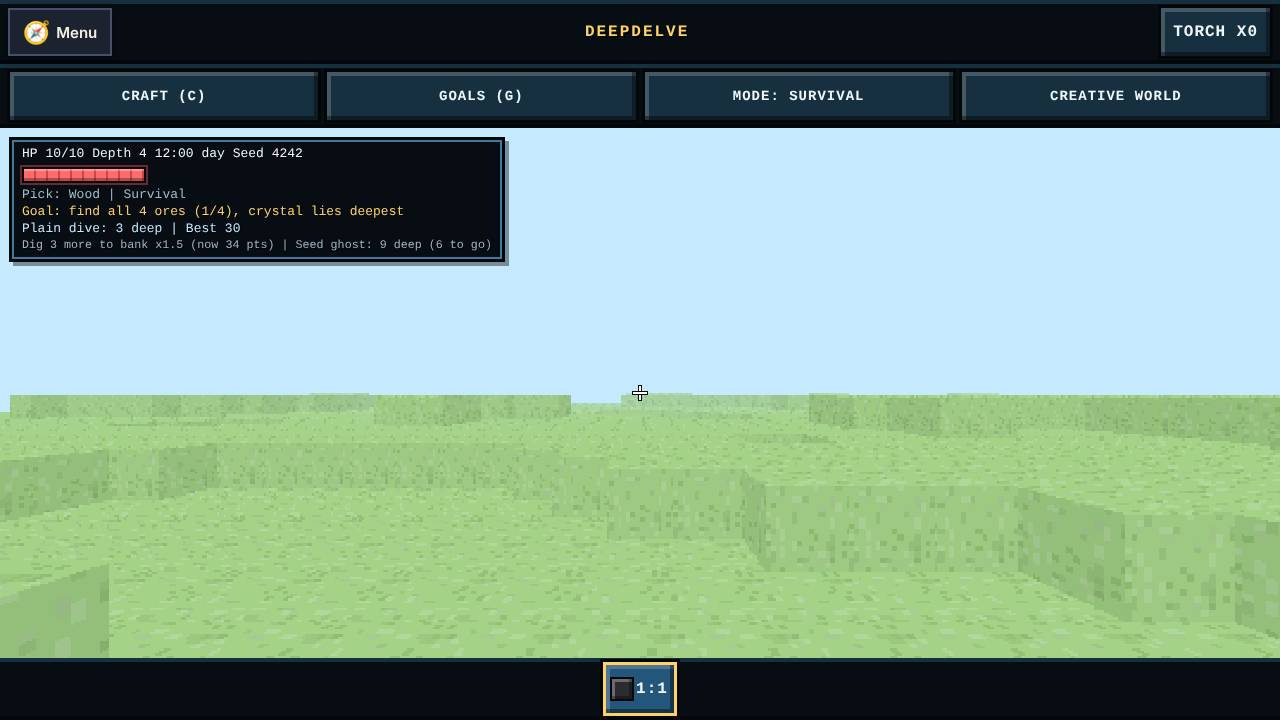
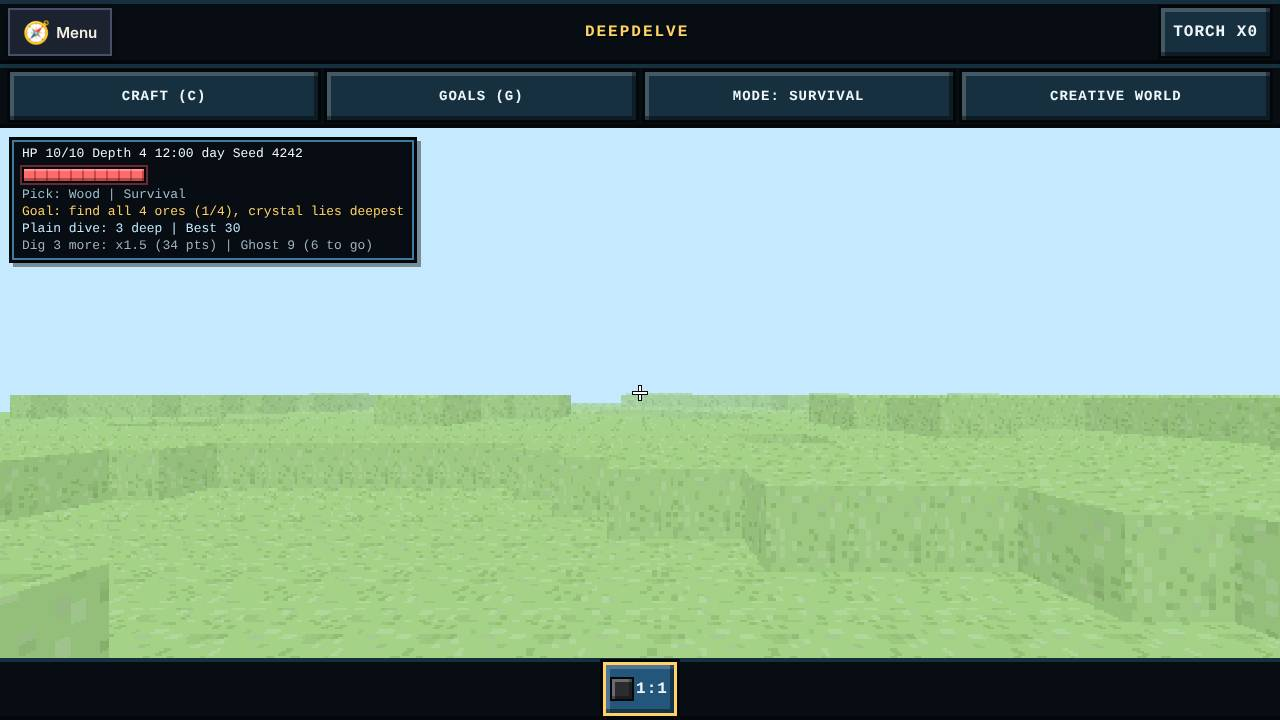
Deepdelve bank line at HUD size; phone HUD folds goal/bank; shadow test uses offlineStub
- #hud-bank drops its .9em (11.7 px) and inherits the HUD size (13 px, x hudScale): >= 12 px everywhere.
- Shorter bank text; the dive line no longer repeats the climb-out hint.
- Phone (<= 480 px): the goal line folds away mid-dive and the bank line folds away at the surface, so
  the HUD is never taller than before the bank line (6 lines mid-dive at 390x844).
- cyc0-town-interact-shadow: offlineStub(ctx) + db.attempts() === 0 (live-class rule in run-all-tiers).
- deepdelve-ghost: new checks for font sizes at 100%/150% text and the phone fold / height.

Claude-Session: https://claude.ai/code/session_01YYUkojBS4xUfZdkLhLvWtx

Changed region(s): [[0.0, 0.1833, 0.4062, 0.3667]]

diff --git a/game/tests/deepdelve-ghost.test.js b/game/tests/deepdelve-ghost.test.js
@@ -56,24 +56,30 @@ class Mem { constructor(o) { this.m = Object.assign({}, o); } getItem(k) { retur
   // ---- page ----
   const browser = await chromium.launch({ args: ['--use-gl=swiftshader', '--enable-unsafe-swiftshader'] });
   const shots = process.env.SHOTS;
-  for (const [name, opts] of [['desktop', { viewport: { width: 1280, height: 720 } }], ['phone', { viewport: { width: 390, height: 844 }, hasTouch: true, isMobile: true }]]) {
+  const PHONE = { viewport: { width: 390, height: 844 }, hasTouch: true, isMobile: true };
+  for (const [name, opts, scale] of [['desktop', { viewport: { width: 1280, height: 720 } }, 1], ['phone', PHONE, 1], ['phone-text150', PHONE, 1.5]]) {
+    const isPhone = opts === PHONE;
     const ctx = await browser.newContext(opts);
     const db = await blockDb(ctx);
     const page = await ctx.newPage();
     const errors = [];
     page.on('pageerror', (e) => errors.push('pageerror: ' + e.message));
-    await page.addInitScript(([k]) => { try { localStorage.setItem(k, JSON.stringify({ v: 1, runs: 3, safe: 1, best: { score: 50, depth: 30, ores: 0, combo: 1 }, seedBest: { 4242: 9 } })); } catch (e) { /* blocked */ } }, [RUNS]);
+    await page.addInitScript(([k, sc]) => { try { if (sc !== 1) localStorage.setItem('pixeltown-access-v1', JSON.stringify({ v: 1, hudScale: sc })); localStorage.setItem(k, JSON.stringify({ v: 1, runs: 3, safe: 1, best: { score: 50, depth: 30, ores: 0, combo: 1 }, seedBest: { 4242: 9 } })); } catch (e) { /* blocked */ } }, [RUNS, scale]);
     await page.goto(URL('&seed=4242'));
     await page.waitForFunction(() => window.__dd && window.__dd.ready, null, { timeout: 60000 });
     const r0 = await page.evaluate(() => {
       const api = window.__dd.run; const d0 = api.depth0();
-      const a = { start: api.bankEl(), seed: api.state.seed };
+      const shown = (id) => { const e = document.getElementById(id); return !!e && e.offsetHeight > 0; };
+      const hud = document.getElementById('hud');
+      const a = { start: api.bankEl(), seed: api.state.seed, surfaceH: hud.offsetHeight, surfGoal: shown('hud-goal'), surfBank: shown('hud-bank') };
       api.tick(d0 + 3); api.mined('stone', 100); a.shallow = api.bankEl(); a.shallowPts = window.__dd.run.MMDDRun.score(api.state, false);
+      a.diveH = hud.offsetHeight; a.diveGoal = shown('hud-goal'); a.diveBank = shown('hud-bank');
+      a.fonts = ['hud-dive', 'hud-bank', 'hud-pick'].map((id) => parseFloat(getComputedStyle(document.getElementById(id)).fontSize));
       return a;
     });
     // the page's own loop keeps ticking at the surface: an unarmed dive stays as it is, so the HUD can be photographed here
     await page.waitForTimeout(300);
-    if (shots) await page.screenshot({ path: `${shots}/cyc0-deepdelve-bank-${name}.jpg`, type: 'jpeg', quality: 70 });
+    if (shots && scale === 1) await page.screenshot({ path: `${shots}/cyc0-deepdelve-bank-${name}.jpg`, type: 'jpeg', quality: 70 });
     const r = await page.evaluate((a) => {
       const api = window.__dd.run; const d0 = api.depth0();
       a.still = api.bankEl();
@@ -86,10 +92,16 @@ class Mem { constructor(o) { this.m = Object.assign({}, o); } getItem(k) { retur
     }, r0);
     console.log('  ' + name + ': ' + JSON.stringify({ start: r.start, shallow: r.shallow, armed: r.armed, past: r.past }));
     check(name + ': the dive carries the page seed (4242)', r.seed === '4242', String(r.seed));
-    check(name + ': before arming the HUD says how many blocks until the bonus, and shows the seed ghost', /^Dig 6 more to bank x1\.5 \(now 0 pts\) \| Seed ghost: 9 deep \(9 to go\)$/.test(r.start), r.start);
-    check(name + ': 3 deep + one block: 3 more to arm, the fall score so far, 6 to the ghost', r.shallowPts > 30 && r.shallow === 'Dig 3 more to bank x1.5 (now ' + r.shallowPts + ' pts) | Seed ghost: 9 deep (6 to go)', r.shallow + ' / ' + r.shallowPts);
-    check(name + ': armed (8 deep): the climb-out value (x1.5) and the fall value are shown and the line is highlighted', r.armedPts[0] === Math.floor(r.armedPts[1] * 1.5) && r.armed === 'Climb out now: ' + r.armedPts[0] + ' pts (a fall keeps ' + r.armedPts[1] + ') | Seed ghost: 9 deep (1 to go)' && r.armedFlag === '1', r.armed + ' ' + r.armedFlag + ' ' + r.armedPts);
-    check(name + ': 11 deep is past the ghost, with a "Past your seed ghost!" pop', /Past your seed ghost by 2$/.test(r.past) && r.past.indexOf('Climb out now: ' + r.expected + ' pts') === 0 && r.pops.some((t) => /seed ghost/.test(t)), r.past + ' ' + JSON.stringify(r.pops));
+    check(name + ': before arming the HUD says how many blocks until the bonus, and shows the seed ghost', r.start === 'Dig 6 more: x1.5 (0 pts) | Ghost 9 (9 to go)', r.start);
+    check(name + ': 3 deep + one block: 3 more to arm, the fall score so far, 6 to the ghost', r.shallowPts > 30 && r.shallow === 'Dig 3 more: x1.5 (' + r.shallowPts + ' pts) | Ghost 9 (6 to go)', r.shallow + ' / ' + r.shallowPts);
+    check(name + ': armed (8 deep): the climb-out value (x1.5) and the fall value are shown and the line is highlighted', r.armedPts[0] === Math.floor(r.armedPts[1] * 1.5) && r.armed === 'Climb out: ' + r.armedPts[0] + ' pts (fall ' + r.armedPts[1] + ') | Ghost 9 (1 to go)' && r.armedFlag === '1', r.armed + ' ' + r.armedFlag + ' ' + r.armedPts);
+    check(name + ': 11 deep is past the ghost, with a "Past your seed ghost!" pop', /\| Ghost \+2$/.test(r.past) && r.past.indexOf('Climb out: ' + r.expected + ' pts') === 0 && r.pops.some((t) => /seed ghost/.test(t)), r.past + ' ' + JSON.stringify(r.pops));
+    check(name + ': HUD text (dive, bank, pick) is >= 12 px and scales with Text size', r.fonts.every((f) => f >= 12) && (scale === 1 || r.fonts[1] >= 13 * scale - 0.5), JSON.stringify(r.fonts));
+    if (isPhone) {
+      check(name + ': phone at the surface shows the goal line and folds the bank line away', r.surfGoal === true && r.surfBank === false, JSON.stringify(r));
+      check(name + ': phone mid-dive folds the goal line away and shows the bank line', r.diveGoal === false && r.diveBank === true, JSON.stringify(r));
+      check(name + ': phone HUD is no taller mid-dive than at the surface (the bank line takes the goal line\'s place)', r.diveH <= r.surfaceH + 1, r.surfaceH + ' -> ' + r.diveH);
+    } else check(name + ': desktop keeps both the goal and the bank line mid-dive', r.diveGoal === true && r.diveBank === true);
     check(name + ': the bank line fits on screen', r.box.l >= 0 && r.box.r <= r.box.w + 1 && r.box.b > r.box.t, JSON.stringify(r.box));
     check(name + ': the unarmed line survives the live game loop unchanged', r.still === r.shallow, r.still);
     const fin = await page.evaluate((k) => { window.__dd.run.end(true, 'test'); return { tip: document.getElementById('run-tip').textContent, saved: JSON.parse(localStorage.getItem(k)).seedBest }; }, RUNS);
@@ -98,7 +110,7 @@ class Mem { constructor(o) { this.m = Object.assign({}, o); } getItem(k) { retur
     await off.goto(URL('&seed=4242&ghost=0'));
     await off.waitForFunction(() => window.__dd && window.__dd.ready, null, { timeout: 60000 });
     const offTxt = await off.evaluate(() => window.__dd.run.bankEl());
-    check(name + ': ?ghost=0 keeps the bank line and drops the ghost part', /^Dig 6 more to bank x1\.5/.test(offTxt) && !/ghost/i.test(offTxt), offTxt);
+    check(name + ': ?ghost=0 keeps the bank line and drops the ghost part', /^Dig 6 more: x1\.5/.test(offTxt) && !/ghost/i.test(offTxt), offTxt);
     check(name + ': no page errors', errors.length === 0, errors.join(' | '));
     check(name + ': no DB traffic', db.attempts() === 0, String(db.attempts()));
     await ctx.close();

diff --git a/game/games/deepdelve/deepdelve.js b/game/games/deepdelve/deepdelve.js
@@ -173,7 +173,7 @@
   function renderDive() {
     const el = $('hud-dive'); if (!el) return;
     if (!run || !runRec) { el.textContent = ''; return; }
-    el.textContent = modName(run.mod) + ': ' + run.depth + ' deep | Best ' + (runRec.best.depth || '-') + (run.armed ? ' | Climb out for x' + RUNS.SAFE_BONUS : '');
+    el.textContent = modName(run.mod) + ': ' + run.depth + ' deep | Best ' + (runRec.best.depth || '-'); // cyc0-S: the climb-out value lives on the bank line below
     renderBank();
   }
   // cyc0-S (NEXT-SLICES-5 DD5): the bank line says what the dive is worth if you climb out now (x1.5) versus a fall, and the
@@ -184,14 +184,15 @@
   function bankText() {
     const b = run && runRec && RUNS.bank ? RUNS.bank(run, runRec) : null;
     if (!b) return '';
-    const head = b.armed ? 'Climb out now: ' + b.surface + ' pts (a fall keeps ' + b.fall + ')' : 'Dig ' + b.toArm + ' more to bank x' + RUNS.SAFE_BONUS + ' (now ' + b.fall + ' pts)';
-    const ghost = !GHOST_ON || !b.ghost ? '' : b.ahead > 0 ? ' | Past your seed ghost by ' + b.ahead : ' | Seed ghost: ' + b.ghost + ' deep (' + (-b.ahead) + ' to go)';
+    const head = b.armed ? 'Climb out: ' + b.surface + ' pts (fall ' + b.fall + ')' : 'Dig ' + b.toArm + ' more: x' + RUNS.SAFE_BONUS + ' (' + b.fall + ' pts)';
+    const ghost = !GHOST_ON || !b.ghost ? '' : b.ahead > 0 ? ' | Ghost +' + b.ahead : ' | Ghost ' + b.ghost + ' (' + (-b.ahead) + ' to go)';
     return head + ghost;
   }
   function renderBank() {
     const el = $('hud-bank'); if (!el) return;
     const t = bankText(); if (t === bankTxt) return;
     bankTxt = t; el.textContent = t; el.dataset.armed = run && run.armed ? '1' : '0';
+    const hud = $('hud'); if (hud) hud.dataset.diving = run && run.depth > 0 ? '1' : '0'; // phone: the goal line folds away mid-dive (CSS)
   }
   const modName = (id) => { const m = RUNS && RUNS.MODS.filter((x) => x.id === id)[0]; return m ? m.name : 'Dive'; };
   function startRun() {

diff --git a/game/tests/cyc0-town-interact-shadow.test.js b/game/tests/cyc0-town-interact-shadow.test.js
@@ -4,16 +4,15 @@
 // door; flowers answer E before doors in interact(), so E at that door picked a flower (door won over 40% of its range).
 // Method: every action handler is replaced by a recorder, dynamic shadows (weeds, fish, villagers, bugs) are moved off the
 // map, the merchant and concert are forced on, and interact() is called on a 4 px grid inside each target's radius.
-// OFFLINE ONLY: blockDb + stubbed Firebase SDK; nothing is written.
+// OFFLINE ONLY: offlineStub(ctx) (blockDb + stubbed Firebase SDK) and db.attempts() === 0 asserted; nothing is written.
 // Run: BASE=http://localhost:8440/game/index.html node game/tests/cyc0-town-interact-shadow.test.js
 const { chromium } = require('playwright');
-const { check, done, blockDb } = require('./helpers');
+const { check, done, offlineStub } = require('./helpers');
 const BASE = process.env.BASE || 'http://localhost:8440/game/index.html';
 (async () => {
   const browser = await chromium.launch();
   const ctx = await browser.newContext({ viewport: { width: 1000, height: 700 } });
-  const db = await blockDb(ctx);
-  await ctx.route(/gstatic\.com\/firebasejs\//, (r) => r.fulfill({ status: 200, contentType: 'application/javascript', body: '/* firebase SDK blocked by cyc0 shadow test */' }));
+  const db = await offlineStub(ctx); // database blocked and the Firebase SDK answered empty
   await ctx.route('**/main.js*', async (route) => {
     const resp = await route.fetch();
     route.fulfill({ response: resp, body: (await resp.text()).replace('const game = new Phaser.Game(config);', 'const game = window.__g = new Phaser.Game(config);') });

diff --git a/game/games/deepdelve/deepdelve.css b/game/games/deepdelve/deepdelve.css
@@ -63,9 +63,12 @@ html[data-dd-world="creative"] .bar h1 { color:#9ff0d8; }
 /* Dive runs: hidden touch buttons stay hidden (.btn display beat [hidden]), combo meter, ore pops, dive summary */
 .tb[hidden], .btn[hidden] { display:none; }
 #hud-dive { color:#bfe6ff; }
-#hud-bank { color:#9fb3c2; font-size:.9em; }
+#hud-bank { color:#9fb3c2; } /* same size as the HUD (>= 12 px at every text size) */
 #hud-bank[data-armed="1"] { color:#ffd36a; }
 #hud-bank:empty { display:none; }
+/* cyc0-S: on a phone the HUD stays ~6 lines: while a dive is under way the goal line folds away (it is in the Goals panel and
+   comes back at the surface), so the dive + bank lines take its place instead of growing the box */
+@media (max-width: 480px) { #hud[data-diving="1"] #hud-goal, #hud:not([data-diving="1"]) #hud-bank { display:none; } }
 #combo { position:absolute; left:50%; top:calc(44% + 48px); transform:translateX(-50%); padding:2px 12px; border-radius:12px; background:rgba(7,13,18,.7); color:var(--acc); font-weight:800; font-size:calc(18px * var(--ui-scale,1)); pointer-events:none; }
 #combo:empty { display:none; }
 #combo.hot { color:#ff9a2e; }
